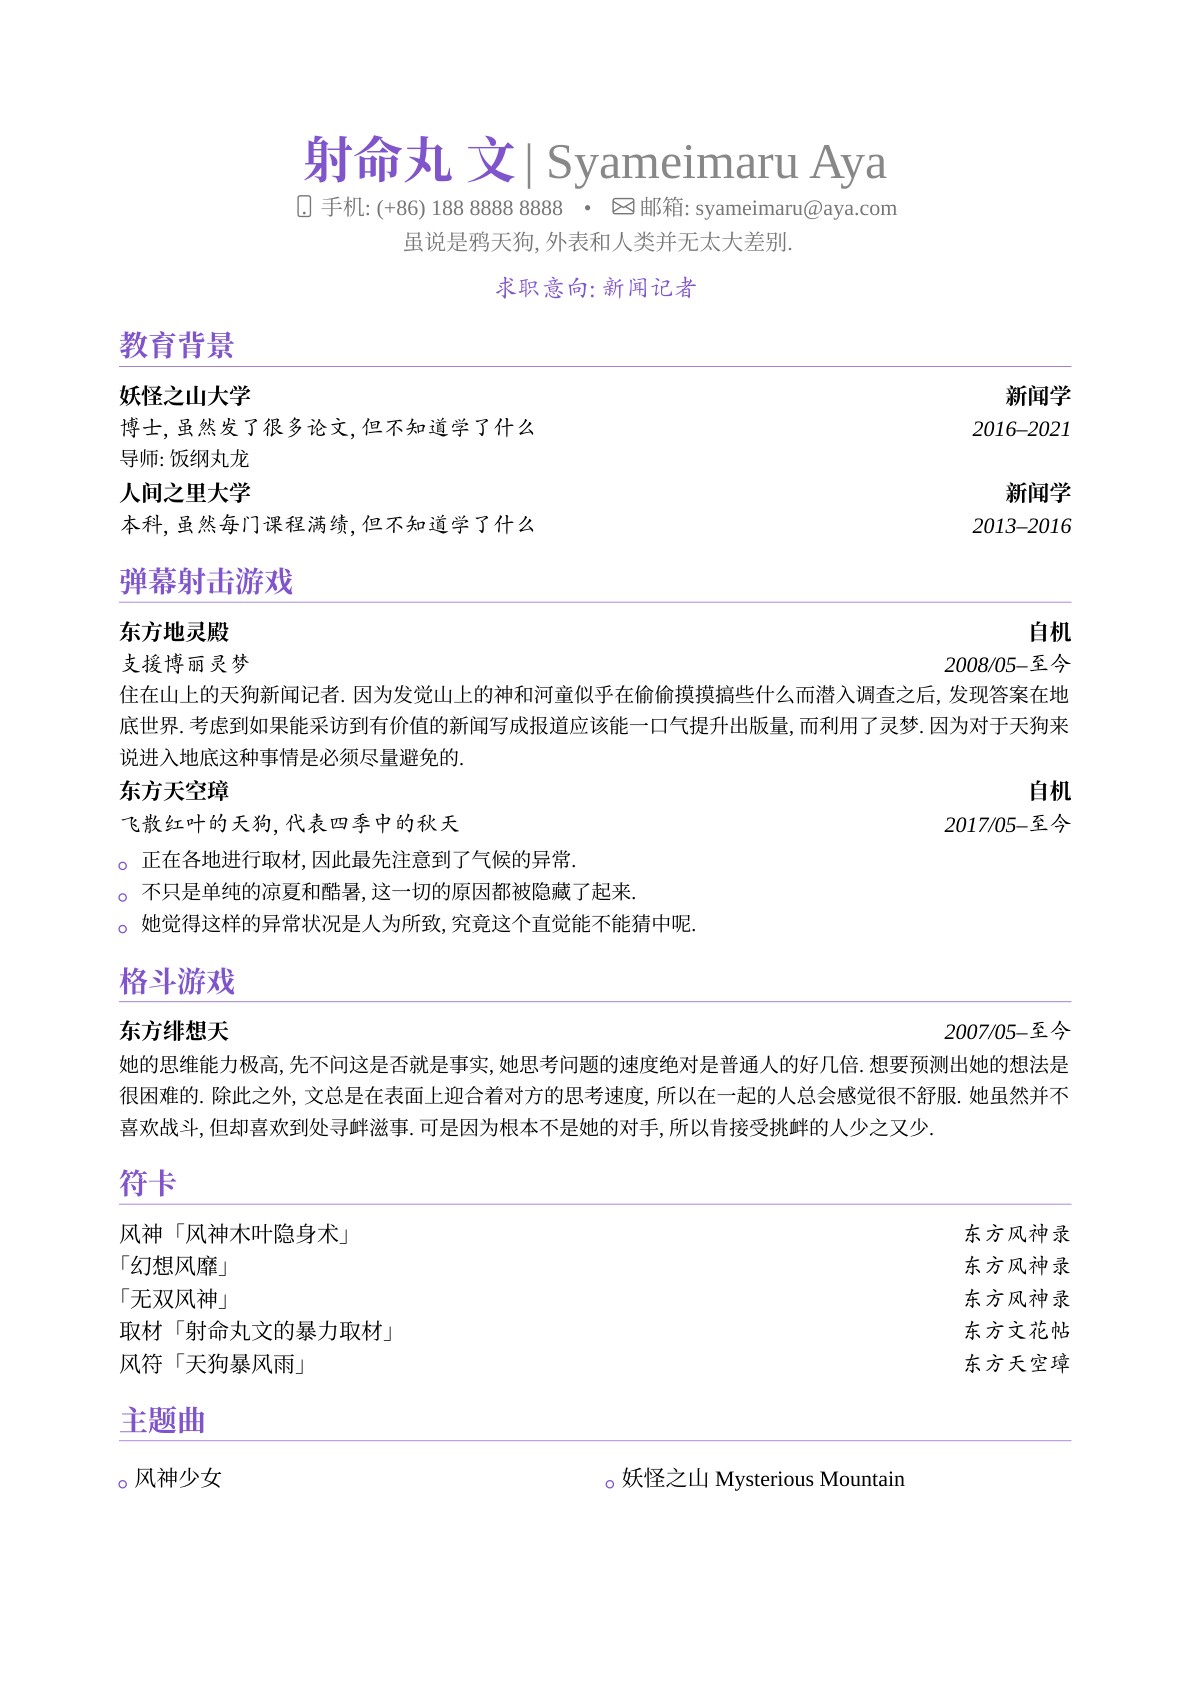
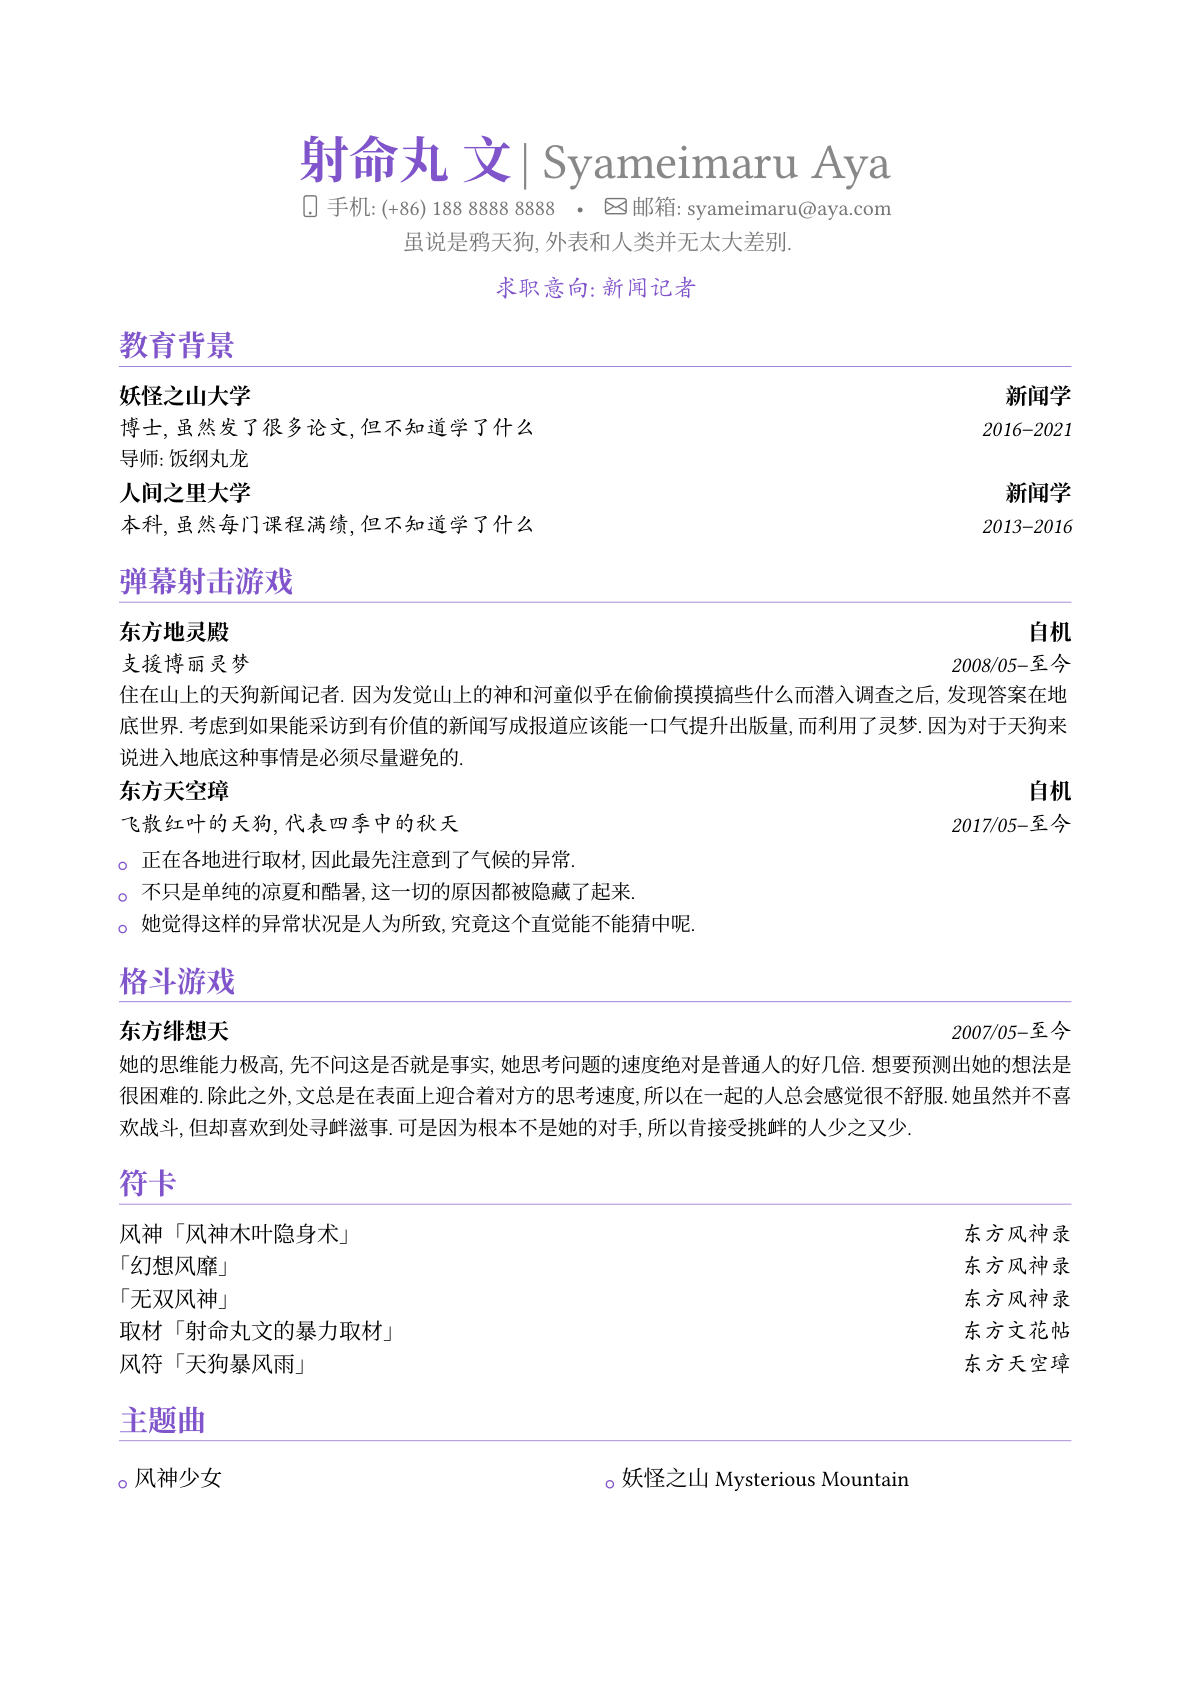
Use Libertinus Serif for Latin text

diff --git a/scripts/install-fonts.py b/scripts/install-fonts.py
@@ -5,12 +5,13 @@ import io
 import json
 import re
 import tarfile
+import zipfile
 from pathlib import Path
 from urllib.request import urlopen
 
 ADOBE = "https://raw.githubusercontent.com/adobe-fonts/source-han-serif/release/"
 UKAI = "https://deb.debian.org/debian/pool/main/f/fonts-arphic-ukai/"
-LIBERATION = "https://api.github.com/repos/liberationfonts/liberation-fonts/releases/latest"
+LIBERTINUS = "https://api.github.com/repos/alerque/libertinus/releases/latest"
 
 
 def fetch(url):
@@ -32,16 +33,12 @@ def download(directory, name, url, force):
     print(f"已准备：{name}")
 
 
-def liberation_url():
-    release = json.loads(fetch(LIBERATION))
+def libertinus_url():
+    release = json.loads(fetch(LIBERTINUS))
     for asset in release.get("assets", []):
-        if "ttf" in asset["name"] and asset["name"].endswith(".tar.gz"):
+        if asset["name"].endswith(".zip"):
             return asset["browser_download_url"]
-    # 部分发布把字体下载链接放在发布说明中。
-    match = re.search(r"https://github\.com/[^\s)]+/liberation-fonts-ttf-[^\s)]+\.tar\.gz", release.get("body", ""))
-    if not match:
-        raise RuntimeError("Liberation Serif 发布页面未找到字体下载链接")
-    return match.group()
+    raise RuntimeError("Libertinus Serif 发布页面未找到字体压缩包")
 
 
 def ukai_url():
@@ -55,13 +52,19 @@ def ukai_url():
 
 def unpack(directory, url, fonts):
     files = {}
-    with tarfile.open(fileobj=io.BytesIO(fetch(url)), mode="r:*") as archive:
-        for member in archive:
-            if not member.isfile():
-                continue
-            name = Path(member.name).name
-            if name in fonts:
-                files[name] = archive.extractfile(member).read()
+    data = io.BytesIO(fetch(url))
+    if zipfile.is_zipfile(data):
+        with zipfile.ZipFile(data) as archive:
+            for member in archive.namelist():
+                name = Path(member).name
+                if name in fonts:
+                    files[name] = archive.read(member)
+    else:
+        data.seek(0)
+        with tarfile.open(fileobj=data, mode="r:*") as archive:
+            for member in archive:
+                if member.isfile() and Path(member.name).name in fonts:
+                    files[Path(member.name).name] = archive.extractfile(member).read()
     if set(files) != set(fonts):
         raise RuntimeError("字体压缩包缺少所需字体")
     for name, data in files.items():
@@ -77,9 +80,9 @@ def main():
     for weight in ("Regular", "Bold"):
         name = f"SourceHanSerifCN-{weight}.otf"
         download(directory, name, ADOBE + "SubsetOTF/CN/" + name, args.force)
-    fonts = tuple(f"LiberationSerif-{weight}.ttf" for weight in ("Regular", "Bold", "Italic", "BoldItalic"))
+    fonts = tuple(f"LibertinusSerif-{weight}.otf" for weight in ("Regular", "Bold", "Italic", "BoldItalic"))
     if args.force or not all((directory / name).is_file() for name in fonts):
-        unpack(directory, liberation_url(), fonts)
+        unpack(directory, libertinus_url(), fonts)
     if args.force or not (directory / "ukai.ttc").is_file():
         unpack(directory, ukai_url(), ("ukai.ttc",))
     print(f"字体已准备好：{directory}")

diff --git a/README.md b/README.md
@@ -19,6 +19,6 @@ typst compile --font-path .fonts resume.typ ayacv.pdf
 | --- | --- |
 | 思源宋体 | 中文正文与标题 |
 | 文鼎楷体 | 中文说明与强调 |
-| Liberation Serif | 英文与数字 |
+| Libertinus Serif | 英文与数字 |
 
 ![简历预览](preview.png)
